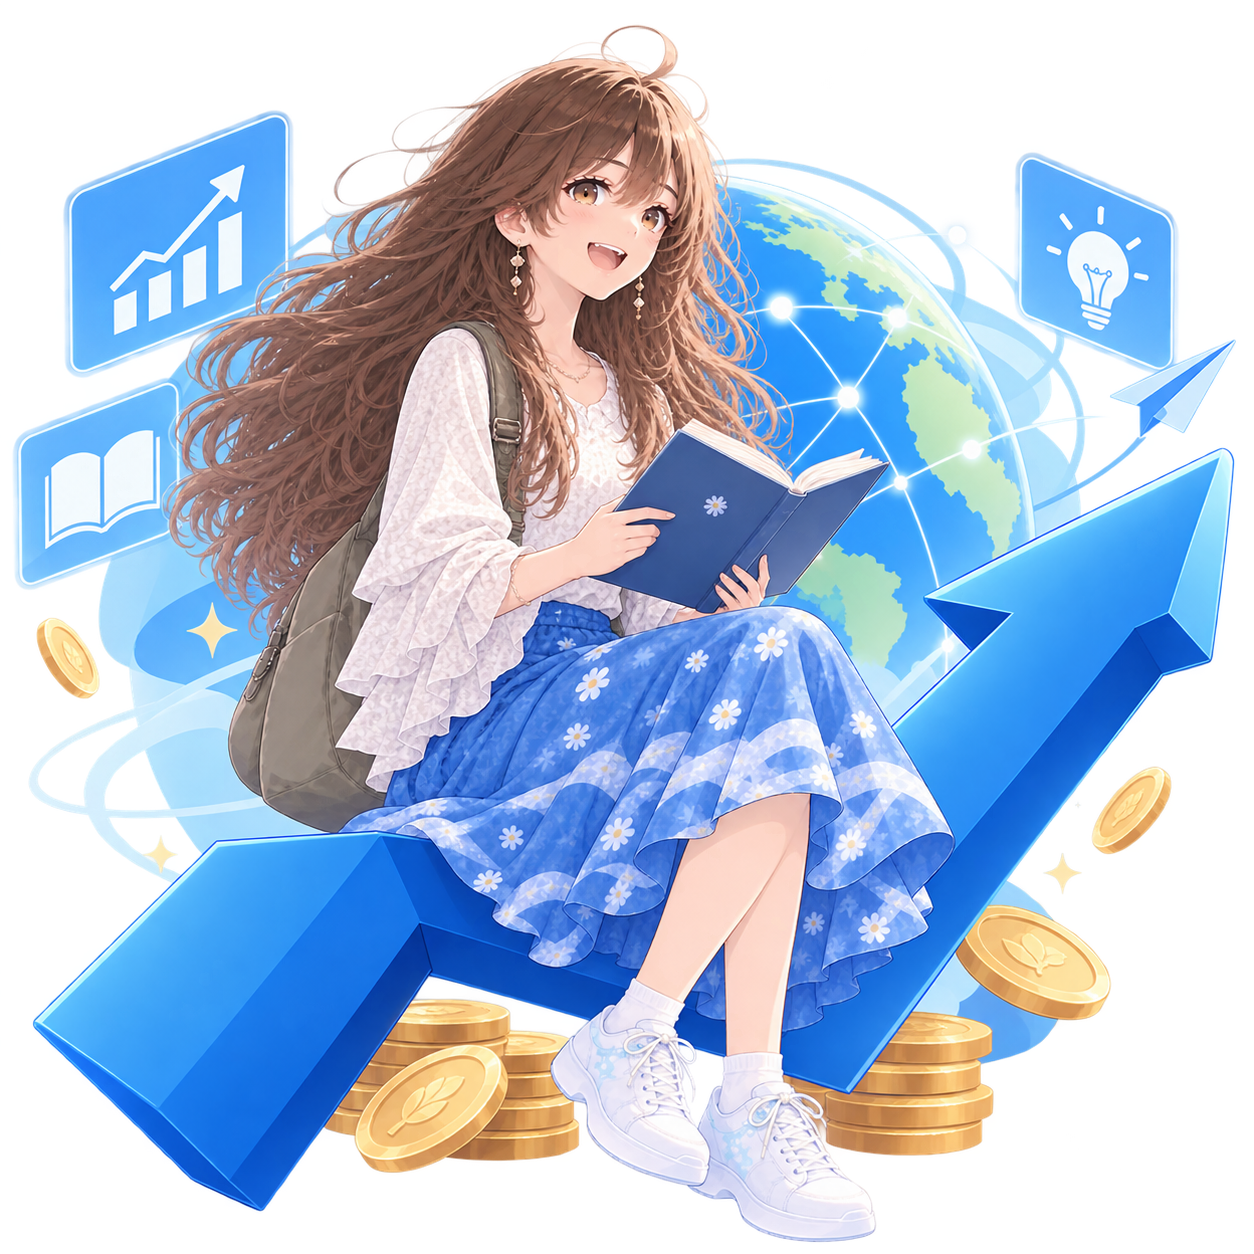
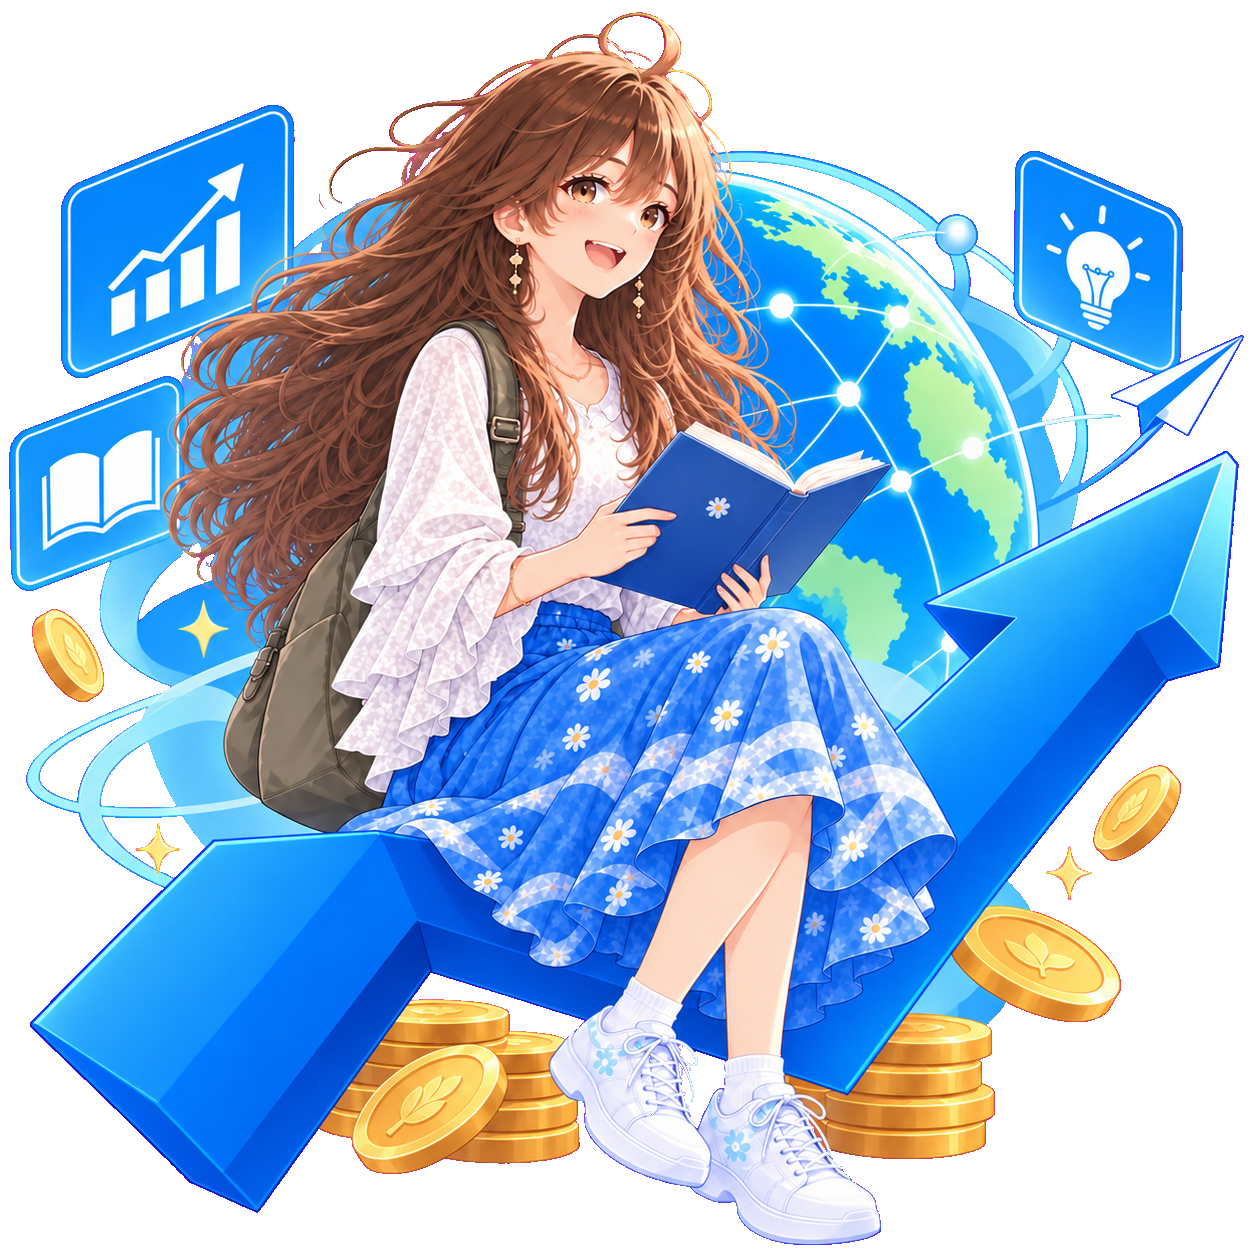
Update PPBP/PPTI character images and add world accessory ornament

diff --git a/src/components/ChooseYourWorld.tsx b/src/components/ChooseYourWorld.tsx
@@ -119,7 +119,14 @@ function WorldSection({
 export function ChooseYourWorld() {
   return (
     <section aria-labelledby="choose-world-heading" className="relative w-full bg-[#eaf2f9] py-14 sm:py-20">
-      <div className="mx-auto max-w-7xl px-4 sm:px-6">
+      {/* Decorative accessory — right side, between the two cards */}
+      <img
+        src="/world-accessory.svg"
+        alt=""
+        aria-hidden
+        className="pointer-events-none absolute right-0 top-1/2 z-10 hidden -translate-y-1/2 select-none md:block w-48 xl:w-60"
+      />
+      <div className="relative mx-auto max-w-7xl px-4 sm:px-6">
         {/* Section header */}
         <div className="text-center">
           <h2
